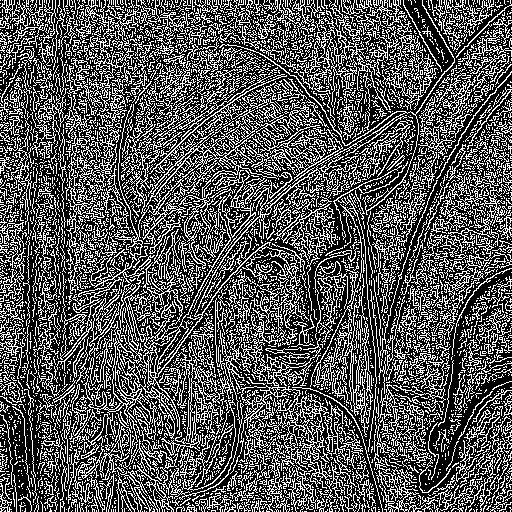
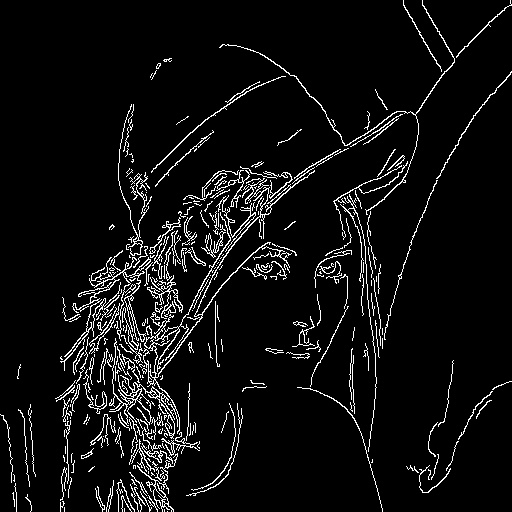
Task 5.1 done

diff --git a/Tarefa 2/filters.py b/Tarefa 2/filters.py
@@ -1,18 +1,5 @@
 #!/usr/bin/env python3
 # -*- coding: utf-8 -*-
-"""
-Created on Thu Aug 16 13:19:26 2018
-
-@author: robotica
-"""
-#Replica a primeira linha
-#x = np.append([x[0][:]],x,axis =0)
-#Adciona na ultima linha
-#x = np.append(x,[x[-1][:]],axis =0)
-#Adciona na primeira Coluna
-#x = np.append(np.transpose([x[:,0]]),x, axis=1)
-#Adciona na ultima coluna
-#np.append(x, np.transpose([x[:,-1]]), axis=1)
 import numpy as np
 import math
 
@@ -57,12 +44,15 @@ def Sobel(image,M = "x"):
         matrix = np.array([[-1,0,1],[-2,0,2],[-1,0,1]])
     elif(M == "y"):
         matrix = np.array([[1,2,1],[0,0,0],[-1,-2,-1]])
-    for x in range (1,h):
-        for y in range(1,w):
-            if(sum(sum(matrix*image[x-1:x+2,y-1:y+2])) > 0):
-                newimg[x-1,y-1] = sum(sum(matrix*image[x-1:x+2,y-1:y+2]))
+    for x in range (0,h):
+        for y in range(0,w):
+            if(sum(sum(matrix*image[x:x+3,y:y+3])) > 0):
+                if(sum(sum(matrix*image[x:x+3,y:y+3])) > 255):
+                    newimg[x,y] = 255
+                else:
+                    newimg[x,y] = sum(sum(matrix*image[x:x+3,y:y+3]))
             else:
-                newimg[x-1,y-1] = 0
+                newimg[x,y] = 0
     return newimg
 
 def Laplacian(image):
@@ -72,15 +62,17 @@ def Laplacian(image):
     image = np.append(image,[image[-1][:]],axis =0)
     image = np.append(np.transpose([image[:,0]]),image, axis=1)
     image = np.append(image, np.transpose([image[:,-1]]), axis=1)
-    matrix = np.array([[0,1,0],[1,-4,1],[0,1,0]])
-    for x in range (1,h):
-        for y in range(1,w):
-            if(sum(sum(matrix*image[x-1:x+2,y-1:y+2])) > 0):
-                newimg[x-1,y-1] = sum(sum(matrix*image[x-1:x+2,y-1:y+2]))
+    matrix = np.array([[0,-1,0],[-1,4,-1],[0,-1,0]])
+    for x in range (0,h):
+        for y in range(0,w):
+            if(sum(sum(matrix*image[x:x+3,y:y+3])) > 0):
+                if(sum(sum(matrix*image[x:x+3,y:y+3])) > 255):
+                    newimg[x,y] = 255
+                else:
+                    newimg[x,y] = sum(sum(matrix*image[x:x+3,y:y+3]))
             else:
-                newimg[x-1,y-1] = 0
+                newimg[x,y] = 0
     return newimg
-
 
 def Median(image):
     newimg = np.copy(image)
@@ -110,12 +102,12 @@ def Gaussian(image):
     image = np.append(np.transpose([image[:,0]]),image, axis=1)
     image = np.append(image, np.transpose([image[:,-1]]), axis=1)
     matrix = np.array([[1,2,1],[2,4,2],[1,2,1]])
-    for x in range (1,h+1):
-        for y in range(1,w+1):
-            if(int(sum(sum(matrix*image[x-1:x+2,y-1:y+2]))/16) > 0):
-                newimg[x-1,y-1] = int(sum(sum(matrix*image[x-1:x+2,y-1:y+2]))/16)
+    for x in range (0,h):
+        for y in range(0,w):
+            if(int(sum(sum(matrix*image[x:x+3,y:y+3]))/16) > 0):
+                newimg[x,y] = int(sum(sum(matrix*image[x:x+3,y:y+3]))/16)
             else:
-                newimg[x-1,y-1] = 0
+                newimg[x,y] = 0
     return newimg
 
 def Gaussian2(image):
@@ -145,65 +137,87 @@ def choice(img,x,y,i,f):
         return f
 
 def suprimir(img,x,y,ang):
-    if(ang == 1):
-        if((img[x,y]>img[x,y+1]) and (img[x,y]>img[x,y-1])):
-            return 255 #choice(img,x,y,t1,t2)
+    if(ang == 0):
+        if((img[x,y]>img[x,y+1]) and (img[x,y]>=img[x,y-1])):
+            return img[x,y] 
         else:
             return 0
-    elif(ang == 2):
-        if((img[x,y]>img[x+1,y+1]) and (img[x,y]>img[x-1,y-1])):
-            return 255 #choice(img,x,y,t1,t2)
+    elif(ang == 45):
+        if((img[x,y]>img[x+1,y-1]) and (img[x,y]>img[x-1,y+1])):
+            return img[x,y]
         else:
             return 0
-    elif(ang == 3):
-        if((img[x+1,y]>img[x,y]) and (img[x-1,y]>img[x,y])):
-            return 255 #choice(img,x,y,t1,t2)
+    elif(ang == 90):
+        if((img[x,y]>img[x+1,y]) and (img[x,y]>=img[x-1,y])):
+            return img[x,y]
         else:
             return 0
-    elif(ang == 4):
-        if((img[x,y]>img[x-1,y+1]) and (img[x,y]>img[x+1,y-1])):
-            return 255 #choice(img,x,y,t1,t2)
+    elif(ang == 135):
+        if((img[x,y]>img[x-1,y-1]) and (img[x,y]>img[x+1,y+1])):
+            return img[x,y]
         else:
             return 0
-    else:
-        if((img[x,y]>img[x,y+1]) and (img[x,y]>img[x,y-1])):
-            return 255 #choice(img,x,y,t1,t2)
-        else:
-            return 0
-
-def Canny(image):
+        
+def Canny(image,t1,t2):
     Gaussiana = np.copy(image)
     Gaussiana = Gaussian(Gaussiana)
+    Laplaciano = np.sqrt(Laplacian(Gaussiana))
     h,w = Gaussiana.shape
     Gx = Sobel(Gaussiana,"x")
     Gy = Sobel(Gaussiana,"y")
-    theta = np.arctan(Gy/Gx)
+    theta = np.arctan2(Gy,Gx)
     theta[np.isnan(theta)]= 0
     t = np.copy(theta)
+    #Non-max supression
     for x in range (0,h):
         for y in range(0,w):
-            if(theta[x,y]<=math.pi/16):
-                t[x,y] = 1
-            elif(theta[x,y]<3*math.pi/16):
-                t[x,y] = 2
-            elif(theta[x,y]<5*math.pi/16):
-                t[x,y] = 3
-            elif(theta[x,y]<7*math.pi/16):
-                t[x,y] = 4
+            if(theta[x,y]<=math.pi/8):
+                t[x,y] = 0
+            elif(theta[x,y]<=3*math.pi/8):
+                t[x,y] = 45
+            elif(theta[x,y]<=5*math.pi/8):
+                t[x,y] = 90
+            elif(theta[x,y]<=7*math.pi/8):
+                t[x,y] = 135
             else:
-                t[x,y] = 5
-    Laplaciano = Laplacian(Gaussiana)
+                t[x,y] = 0
     temp = np.zeros((h,w), dtype=np.uint8)
     for x in range (1,h-1):
         for y in range(1,w-1):
             temp[x,y] =  suprimir(Laplaciano,x,y,t[x,y])
-    outputimg = np.copy(temp)        
-    for x in range (1,h-2):
-        for y in range(1,w-2):
-            aux = temp[x-1:x+2,y-1:y+2]
-            if(np.count_nonzero(aux == 0)==1):
-                outputimg[x,y]=0
-    return outputimg
+    temp[:,0] = temp[:,1]
+    temp[:,-1] = temp[:,-2]
+    temp[0,:] = temp[1,:]
+    temp[-1,:] = temp[-2,:]
+    
+    #Normalizando
+    Laplaciano = (255/np.max(Laplaciano))*Laplaciano
+    # Double Thresholnding
+    #a)
+    classifier = np.zeros((h,w))
+    for x in range (0,h):
+        for y in range(0,w):
+            if(Laplaciano[x,y]<t1):
+                classifier[x,y] = 0
+            elif(Laplaciano[x,y]<t2):
+                classifier[x,y] = 1
+            else:
+                classifier[x,y] = 2
+    #b) 
+    supression = np.zeros((h,w), dtype=np.uint8)     
+    for x in range (1,h-1):
+        for y in range(1,w-1):
+            if(classifier[x,y] == 0):
+                supression[x,y] = 0
+            elif(classifier[x,y] == 1):
+                aux = classifier[x-1:x+2,y-1:y+2]
+                if((aux == 0).sum() == 8):
+                    supression[x,y] = 0
+                else:
+                    supression[x,y] = 255
+            else:
+                supression[x,y] = 255
+    return Gx,Gy,theta,Gaussiana,Laplaciano,supression
 
 def Laplacian2(image,h,w):
     newimg = np.copy(image)
@@ -212,11 +226,3 @@ def Laplacian2(image,h,w):
         for y in range(1,w-2):
             newimg[x,y] = sum(sum(matrix*image[x-1:x+2,y-1:y+2]))
     return newimg
-
-
-
-
-
-
-
-

diff --git a/Tarefa 5/Hough.py b/Tarefa 5/Hough.py
@@ -1,0 +1,39 @@
+#!/usr/bin/env python3
+# -*- coding: utf-8 -*-
+import cv2
+import numpy as np
+import math
+
+def find_nearest_vector(array, value):
+  idx = np.array([np.linalg.norm(x+y) for (x,y) in array-value]).argmin()
+  return array[idx]
+
+def Line(img,t1,t2,lim):
+    img = cv2.imread(img,0)
+    h,w = img.shape[:]
+    print("Altura "+str(h)+" "+"Largura "+str(w))
+    pmax = int(math.sqrt(h**2 + w**2))
+    print("P máximo "+str(pmax))
+    M = np.zeros((int(pmax/5+1),36))
+    lines = cv2.Canny(img,t1,t2)
+    for x in range (0,h):
+        for y in range(0,w):
+            if(lines[x,y] == 255): 
+                    for theta in range(0,180,5):
+                        p = x*math.cos(math.pi*theta/180) + y*math.sin(math.pi*theta/180)
+                        M[int(round(p,0)/5),int(theta/5)]+=1
+                    
+    pmax,t = np.unravel_index(M.argmax(), M.shape)
+    output = cv2.cvtColor(lines,cv2.COLOR_GRAY2BGR)
+    print("Limite "+str(lim))
+    while(M[pmax,t]>lim):
+        for x in range (0,h):
+            for y in range(0,w):
+                value = x*math.cos(math.pi*t*5/180) + y*math.sin(math.pi*t*5/180) - pmax*5
+                if(int(round(value,0)) == 0):
+                    #print("value "+str(value)+"entrou - X = "+str(x)+" Y = "+str(y))
+                    output[x,y] = np.array([0, 0, 255], dtype=np.uint8)
+        print(M[pmax,t])
+        M[pmax,t] = 0
+        pmax,t = np.unravel_index(M.argmax(), M.shape)
+    return output,M

diff --git a/Tarefa 2/Tarefa2.py b/Tarefa 2/Tarefa2.py
@@ -62,11 +62,20 @@ cv2.imwrite("Laplacian.jpg",newimg)
 
 #Canny
 image = cv2.imread("lena.jpg",0)
-t1 = filters.Canny(image)
-cv2.imwrite("Canny.jpg",t1)
-ref = cv2.Canny(image,0,0)
-cv2.imwrite("Canny-OpenCV.jpg",ref)
+#
+image = cv2.imread("135.png",0)
+#Laplaciano do Gaussiano
+GaussianaOpencv = cv2.filter2D(image,-1,np.array([[1,2,1],[2,4,2],[1,2,1]])/16)
+Gaussiana = filters.Gaussian(image)
+LapGasOpenCV = cv2.filter2D(GaussianaOpencv,-1,np.array([[0,-1,0],[-1,4,-1],[0,-1,0]]))
+LapGas = filters.Laplacian(Gaussiana)
+cv2.imwrite("Laplaciana da Gaussiana-OpenCV.jpg",LapGasOpenCV)
+#cv2.imwrite("Laplaciana da Gaussiana.jpg",Laplaciano)
 
+Gx,Gy,theta,Gaussiana,Laplaciano,supression = filters.Canny(image,100,200)
+cv2.imwrite("Canny.jpg",supression)
+ref = cv2.Canny(image,100,200)
+cv2.imwrite("Canny-OpenCV.jpg",ref)
 
 #Média
 dst = cv2.filter2D(image,-1,np.array([[1,1,1],[1,1,1],[1,1,1]])/9)

diff --git a/Tarefa 5/Tarefa5.py b/Tarefa 5/Tarefa5.py
@@ -1,0 +1,9 @@
+#!/usr/bin/env python3
+# -*- coding: utf-8 -*-
+
+import Hough
+import cv2
+
+image,m = Hough.Line("building.jpg",150,200,500)
+
+cv2.imwrite("saida.png",image)
